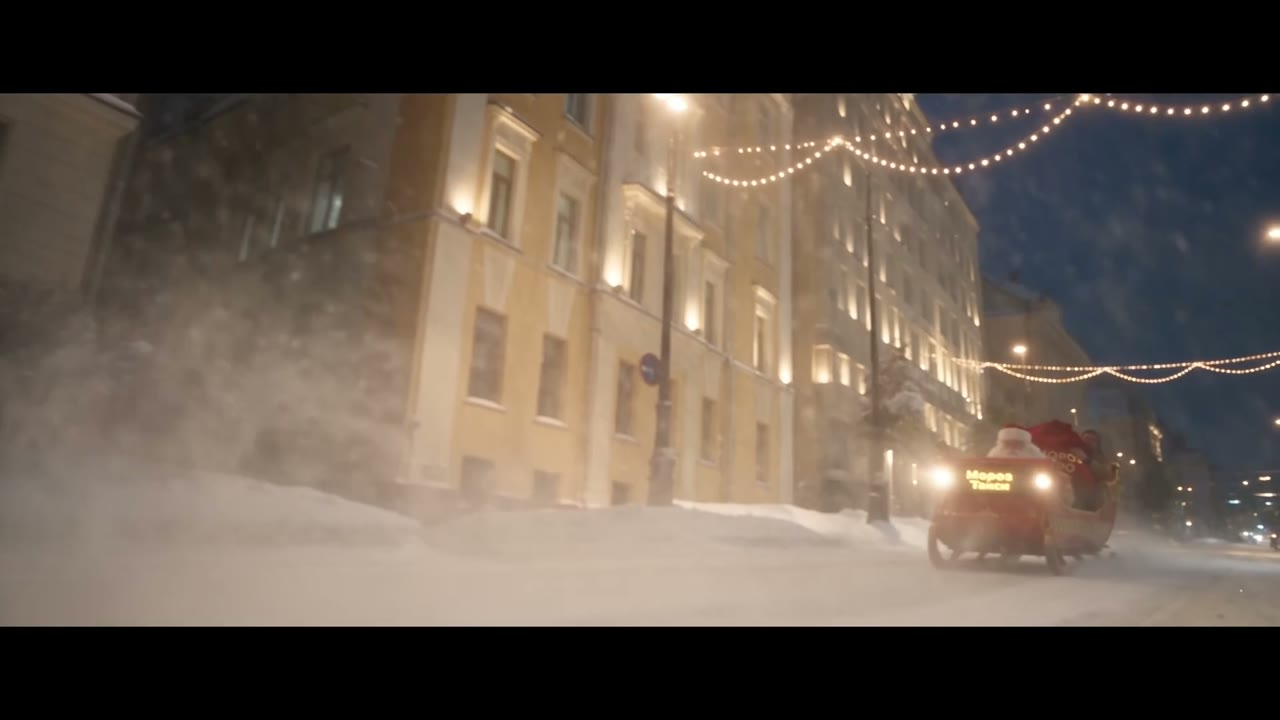
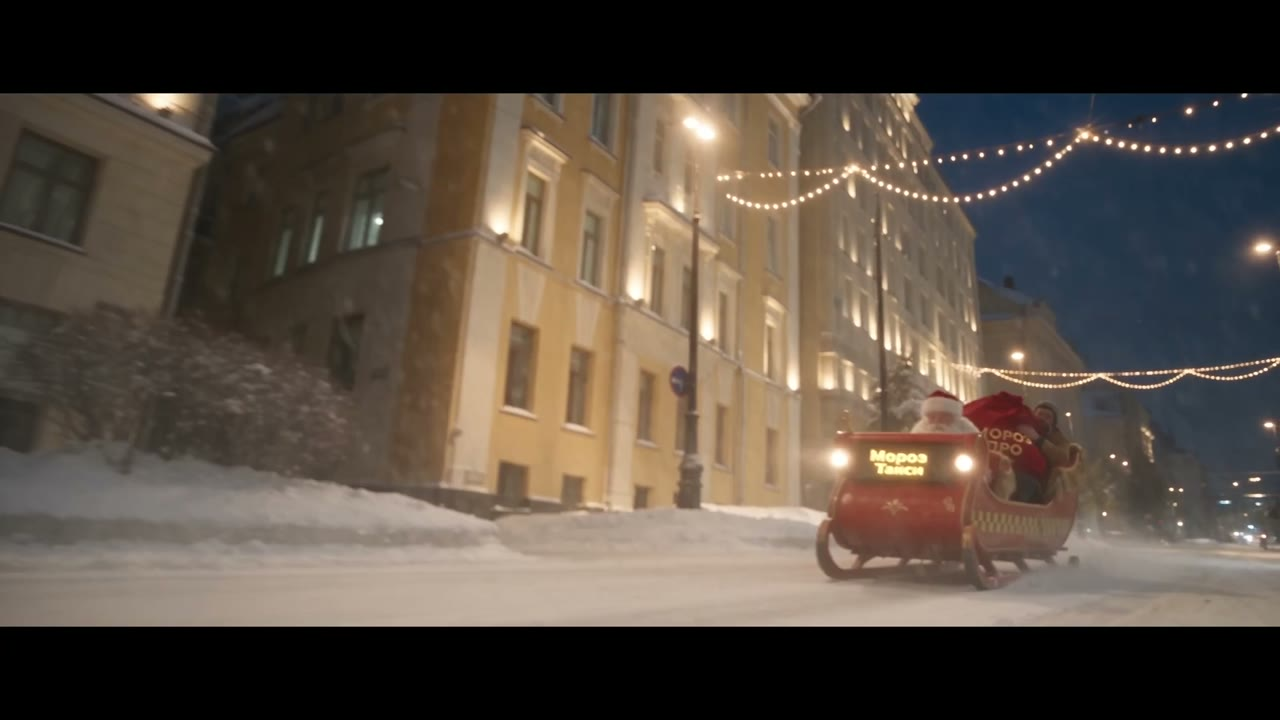
uralsib regen: horses shot 08 in main list

diff --git a/uralsib-regen-dc6bb253/index.html b/uralsib-regen-dc6bb253/index.html
@@ -29,7 +29,7 @@ ul{margin:6px 0;padding-left:20px}a{color:#b49cff}.mut{color:var(--mut);font-siz
 
 <div class="rule">
 <p><b>Правило клиента.</b> «Мороз ПРО» остаётся титром в начале. С мешков, визиток и всех остальных мест убираем. «Мороз Такси» и продукты на ёлке оставляем.</p>
-<p><b>Решение Кости 25.11.</b> Фон с «МОРОЗ ПРО» на экране за Дедом на крупном плане не трогаем. Всё остальное перегенерируем. Плюс новая генерация: кони у саней-такси.</p>
+<p><b>Решение Кости 25.11.</b> Фон с «МОРОЗ ПРО» на экране за Дедом на крупном плане не трогаем. Всё остальное перегенерируем. Плюс кони: первый кадр с такси, где сани едут сами, перегенерируем с упряжкой (шот 08).</p>
 <p class="mut">Источники: голосовое Вероники 25.11 13:22 (<a href="https://t.me/c/4495041768/1238">1238</a>), «“Мороз ПРО” чистим везде» 25.11 17:35 (<a href="https://t.me/c/4495041768/1298">1298</a>), Рома: «начать вносить комментарии по перегенерации мешков, визитной карточки» 25.11 17:34 (<a href="https://t.me/c/4495041768/1296">1296</a>). Денис 25.11 17:23: правки делаем в рамках бюджета (<a href="https://t.me/c/4495041768/1292">1292</a>).</p>
 </div>
 
@@ -43,7 +43,7 @@ ul{margin:6px 0;padding-left:20px}a{color:#b49cff}.mut{color:var(--mut);font-siz
 </table>
 <p class="mut">Шот 01 общий для всех версий: перегенерировали один раз — заменили в четырёх монтажах.</p>
 
-<h2>Перегенерация: 7 шотов</h2>
+<h2>Перегенерация: 8 шотов</h2>
 <div class="grid">
 <article class="card">
   <img src="img/a_card.jpg" alt="">
@@ -101,18 +101,13 @@ ul{margin:6px 0;padding-left:20px}a{color:#b49cff}.mut{color:var(--mut);font-siz
     <div class="chips"><span class="chip"><b>30 с</b> 11,0–12,5</span></div>
     <p>Убрать «Мороз ПРО» с экрана у ёлки: в тридцатке он уже есть в открывающем шоте (1,5–3,0 с). Перегенерируем, кропом не закрываем.</p><p class="note">Решение Кости 25.11: всё, кроме фона за Дедом, перегенерируем.</p>
   </div>
-</article>
-</div>
-
-<h2>Новая генерация: кони</h2>
-<div class="grid">
-<article class="card">
+</article><article class="card">
   <img src="img/g_taxi_horses.jpg" alt="">
   <div class="body">
     <div class="num">08</div>
-    <h3>Сани-такси с конями</h3>
-    <div class="chips"><span class="chip"><b>30 с</b> ≈3,3–4,5</span></div>
-    <p>Новая генерация: первый кадр с такси, сани едут по улице — запрячь коней. Сейчас сани едут сами. Свет, улица, гирлянды и табличка «Мороз Такси» как в текущем шоте.</p><p class="note">Коммент Артёма: «нужно еще в первом кадре с такси добавить коней» 19.11 16:51, повтор 21.11 и 25.11 14:29.</p>
+    <h3>Первый кадр с такси: сани без коней</h3>
+    <div class="chips"><span class="chip"><b>30 с</b> 3,3–4,2</span></div>
+    <p>Перегенерировать с конями: сейчас сани едут по улице сами, коней нет. Запрячь коней, всё остальное как в текущем шоте: жёлтое такси проносится мимо, снежная пыль, улица, гирлянды, табличка «Мороз Такси».</p><p class="note">Коммент Артёма: «нужно еще в первом кадре с такси добавить коней» 19.11 16:51, повтор 21.11 и 25.11 14:29. Следом идёт шот 02, где Дед держит вожжи: кони должны сходиться с ним по виду.</p>
   </div>
 </article>
 </div>
